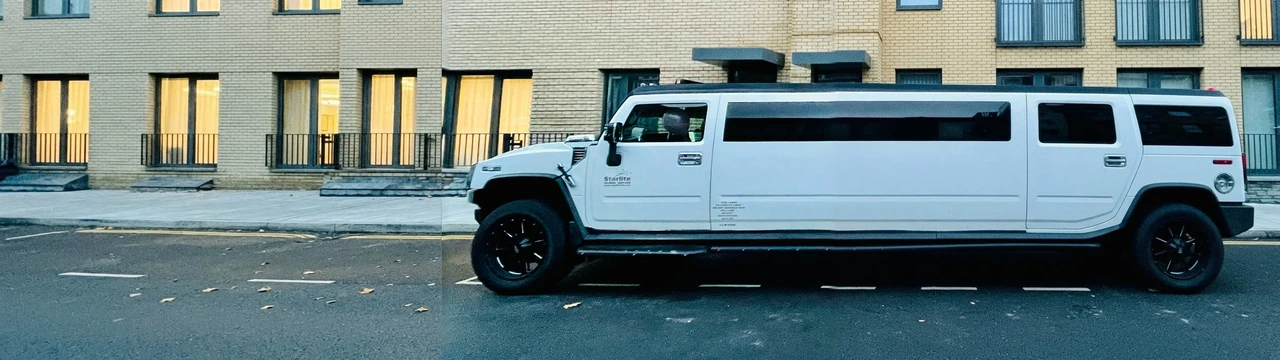
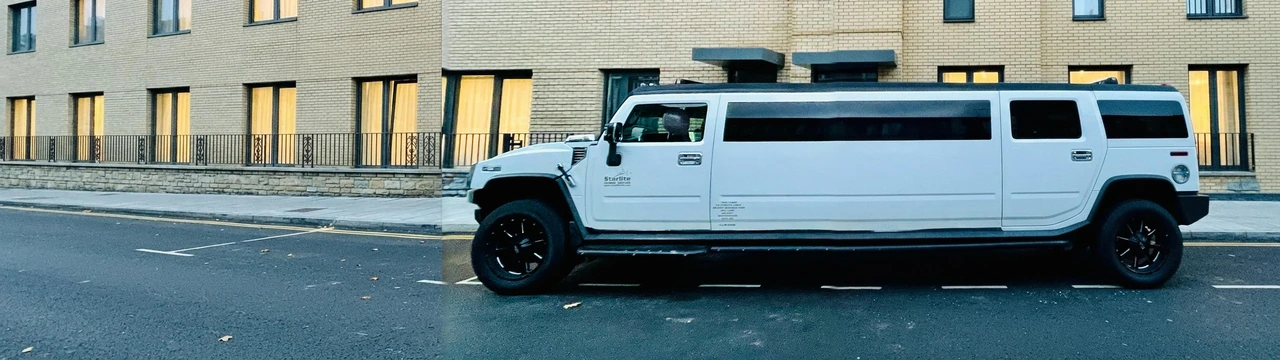
Hero: full-size JPGs (before, 5120x1440 after), cleaner AI run; extend prompt forbids duplicating the subject

diff --git a/web/index.html b/web/index.html
@@ -44,7 +44,7 @@
         <div class="tg-msg in"><p>…<span class="tg-time">16:42</span></p></div>
         <div class="tg-msg in photo wide">
           <div class="shot"><img src="/assets/img/hero_after.webp" width="1280" height="360" alt="Результат: лимузин целиком, улица дорисована с ИИ, 5120×1440">
-            <span class="tags"><i>5120×1440</i><i>900 КБ</i></span></div>
+            <span class="tags"><i>5120×1440</i><i>890 КБ</i></span></div>
           <p>✅ Готово · края дорисованы с ИИ<span class="tg-time">16:43</span></p>
         </div>
       </div>

diff --git a/scripts/landing_assets.py b/scripts/landing_assets.py
@@ -75,7 +75,10 @@ async def hero():
     img, c, calls = await extend.extend(OpenRouterProvider(), raw, "5120:1440")
     cost += c
     full = pipeline.encode(img.resize((5120, 1440), Image.LANCZOS), "jpeg", max_kb=900)
-    meta = {"before": before, "after": {"w": full.width, "h": full.height, "kb": full.kb, "calls": calls}}
+    (OUT / "hero_after.jpg").write_bytes(full.data)  # full-size result, downloadable from the site
+    clean = pipeline.run(raw, [{"op": "format", "format": "jpeg"}])  # source without metadata
+    (OUT / "hero_before.jpg").write_bytes(clean.data)
+    meta = {"before": before, "before_jpg_kb": clean.kb, "after": {"w": full.width, "h": full.height, "kb": full.kb, "calls": calls}}
     meta["before_web"] = save("hero_before", raw, [{"op": "resize", "mode": "fit", "width": 480}, {"op": "format", "format": "webp"}])
     meta["after_web"] = save("hero_after", full.data, [{"op": "resize", "mode": "fit", "width": 1280}, {"op": "format", "format": "webp"}])
     (OUT / "hero.json").write_text(json.dumps(meta, ensure_ascii=False, indent=1))

diff --git a/bot/app/extend.py b/bot/app/extend.py
@@ -23,7 +23,8 @@ OVERLAP = 0.4  # share of every window taken from already-filled pixels (context
 PROMPT = (
     "This photo is surrounded by flat gray empty areas. Fill every gray area completely by seamlessly "
     "continuing the scene of the photo (background, surfaces, objects cut by the edge, lighting, perspective), "
-    "so it becomes one natural photo. Do not change anything that is not gray. No text, no borders, no gray left."
+    "so it becomes one natural photo. Complete objects cut by the photo edge, but never add a second copy of the main "
+    "subject or any new person, vehicle or animal. Do not change anything that is not gray. No text, no borders, no gray left."
 )
 _RATIOS = {r: (lambda a, b: a / b)(*map(int, r.split(":"))) for r in AI_RATIOS}
 _MAX_W, _MAX_T = max(_RATIOS.values()), min(_RATIOS.values())  # 21:9 and 9:16

diff --git a/AI/DEPLOY.md b/AI/DEPLOY.md
@@ -69,4 +69,4 @@ Then in Telegram: `/start` → send a photo with "квадрат 500x500" → a 
 Edit `credentials.env` locally → `scp` it to the server → `$DC up -d` (recreates the containers with the new env). Never commit it.
 
 ## 7. Domain switch-on
-Live: `DOMAIN=imgrsz.ru, www.imgrsz.ru` (A records `@`, `www` → server IP). Change: edit `credentials.env` → copy it to the server → `$DC up -d --force-recreate caddy`; HTTPS is issued automatically. `deploy/Caddyfile` redirects old `http://<IP>` links to the domain; when moving to a new VPS, update that IP. Back to IP-only (domain broken): `DOMAIN=:80` and delete the redirect block.
+Live: `DOMAIN="imgrsz.ru, www.imgrsz.ru"` (quoted, so `. credentials.env` works in a shell) (A records `@`, `www` → server IP). Change: edit `credentials.env` → copy it to the server → `$DC up -d --force-recreate caddy`; HTTPS is issued automatically. `deploy/Caddyfile` redirects old `http://<IP>` links to the domain; when moving to a new VPS, update that IP. Back to IP-only (domain broken): `DOMAIN=:80` and delete the redirect block.
